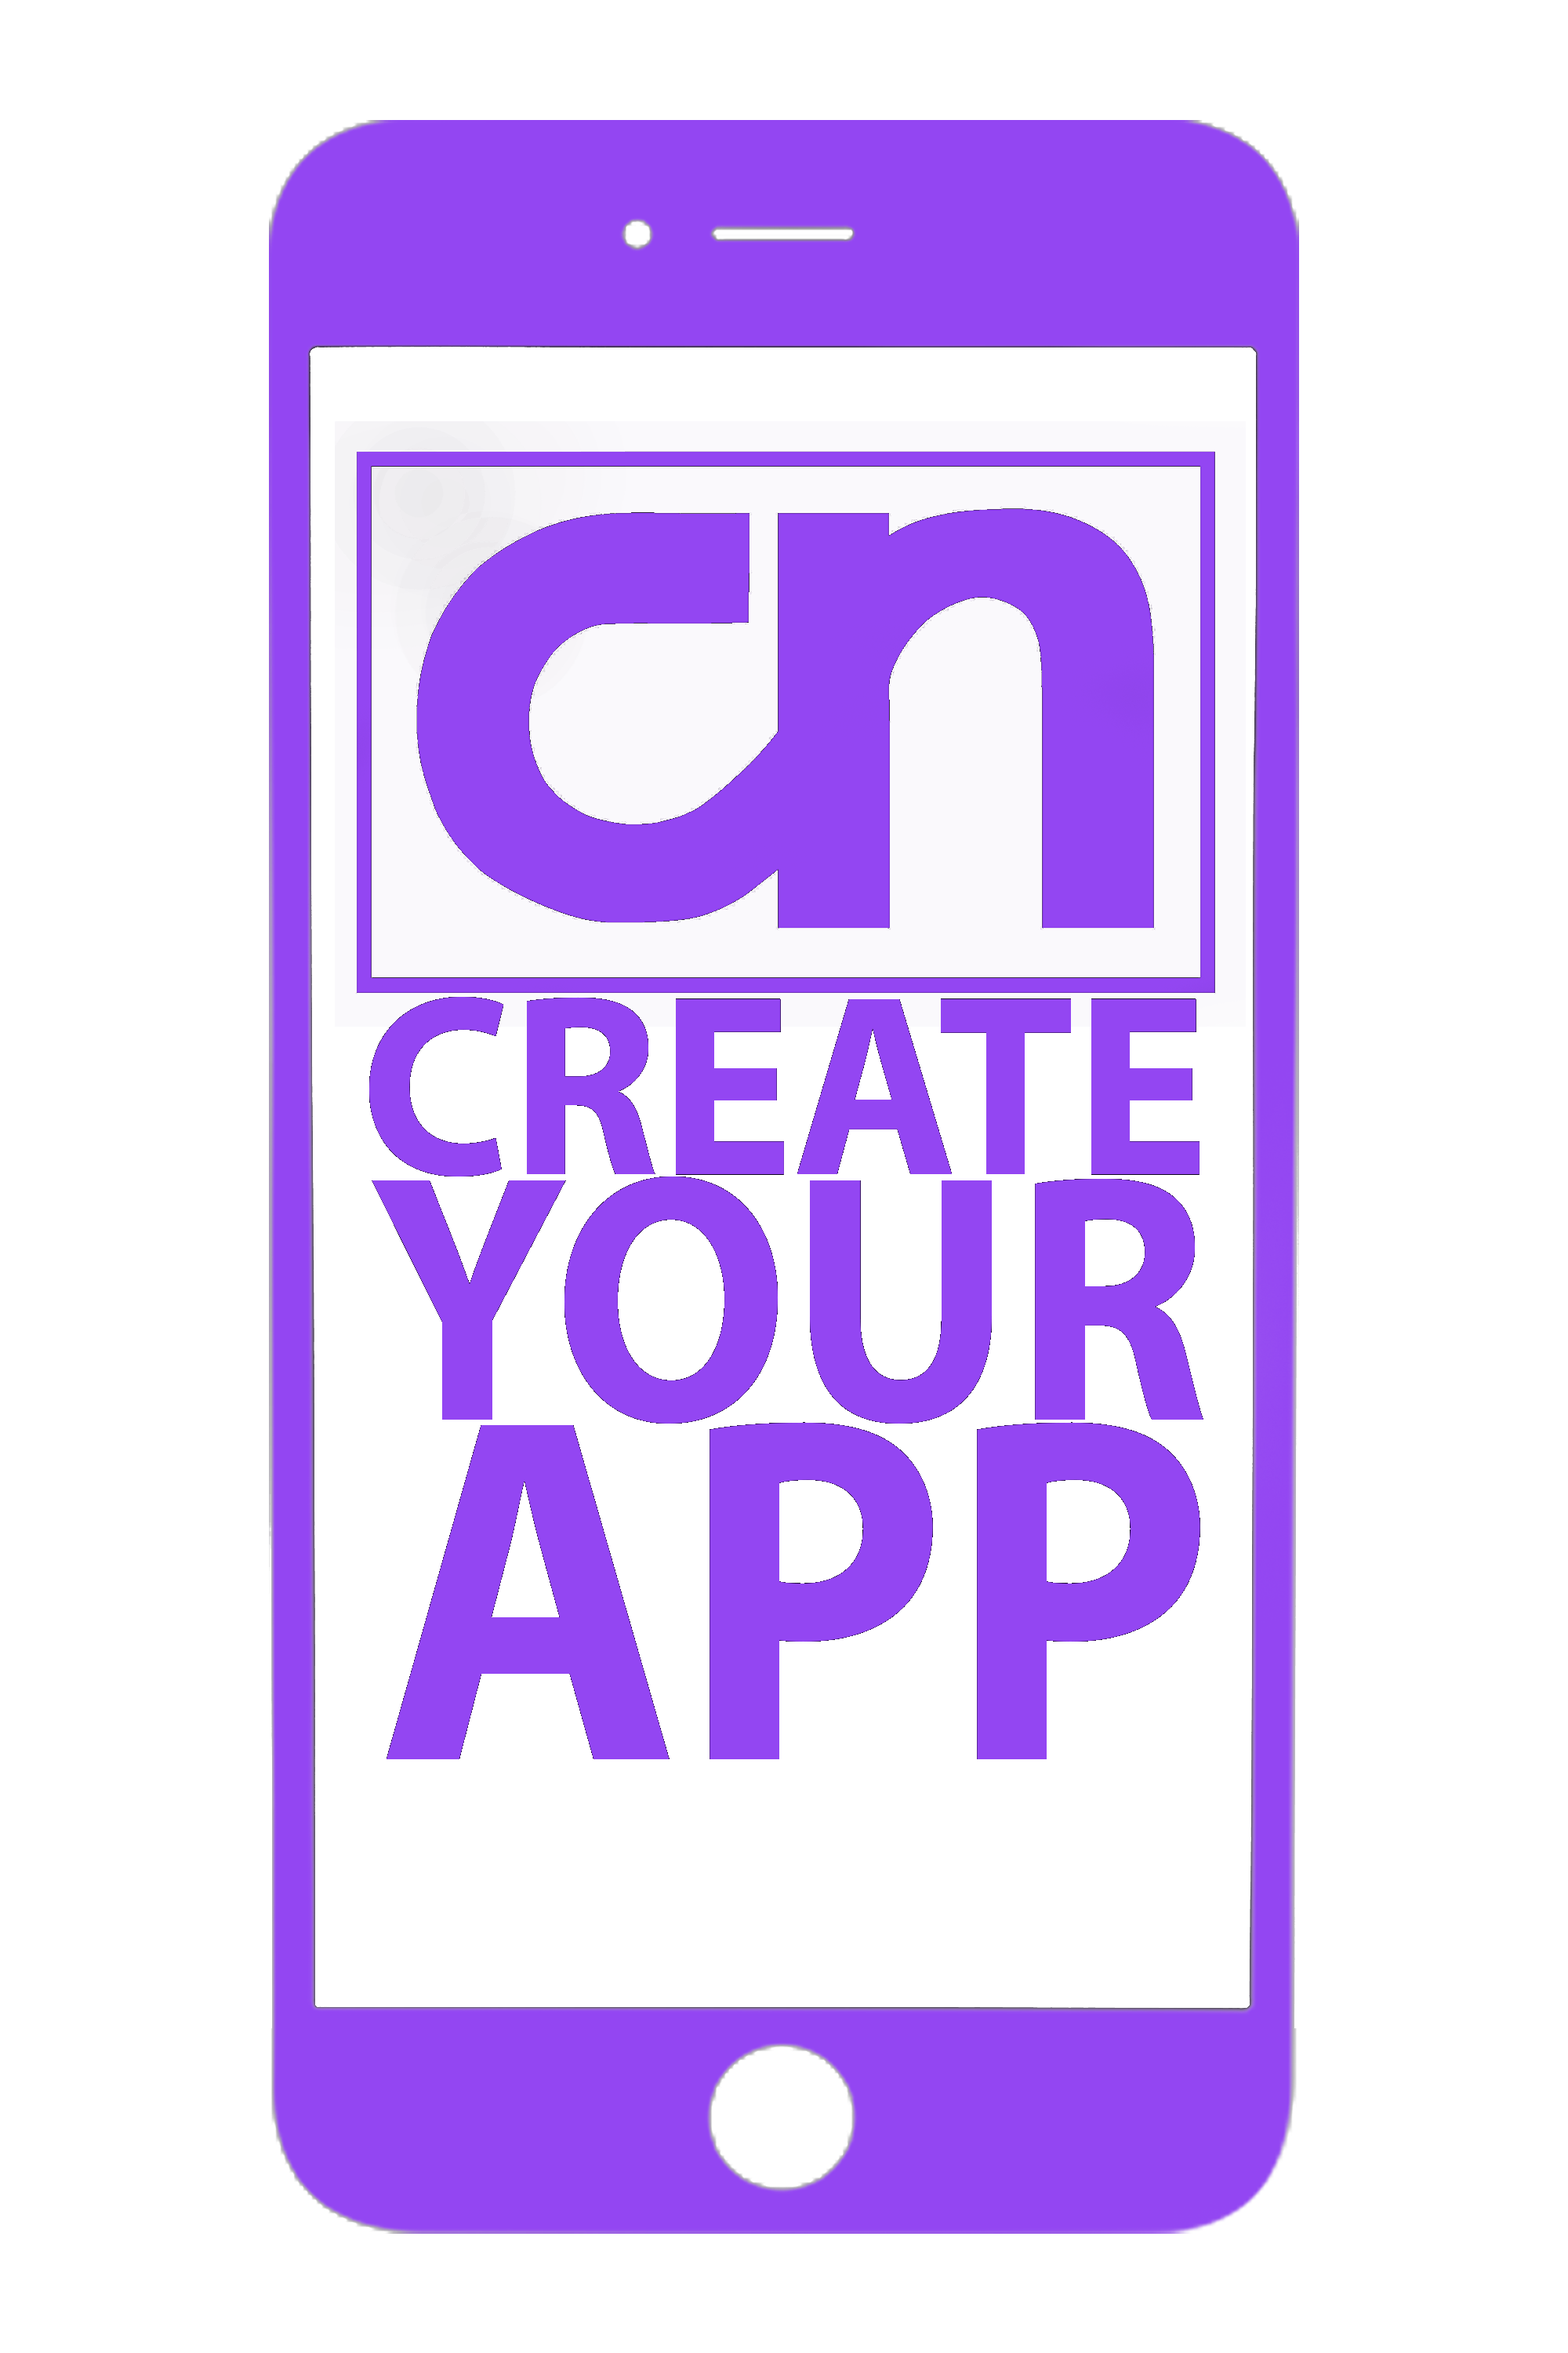
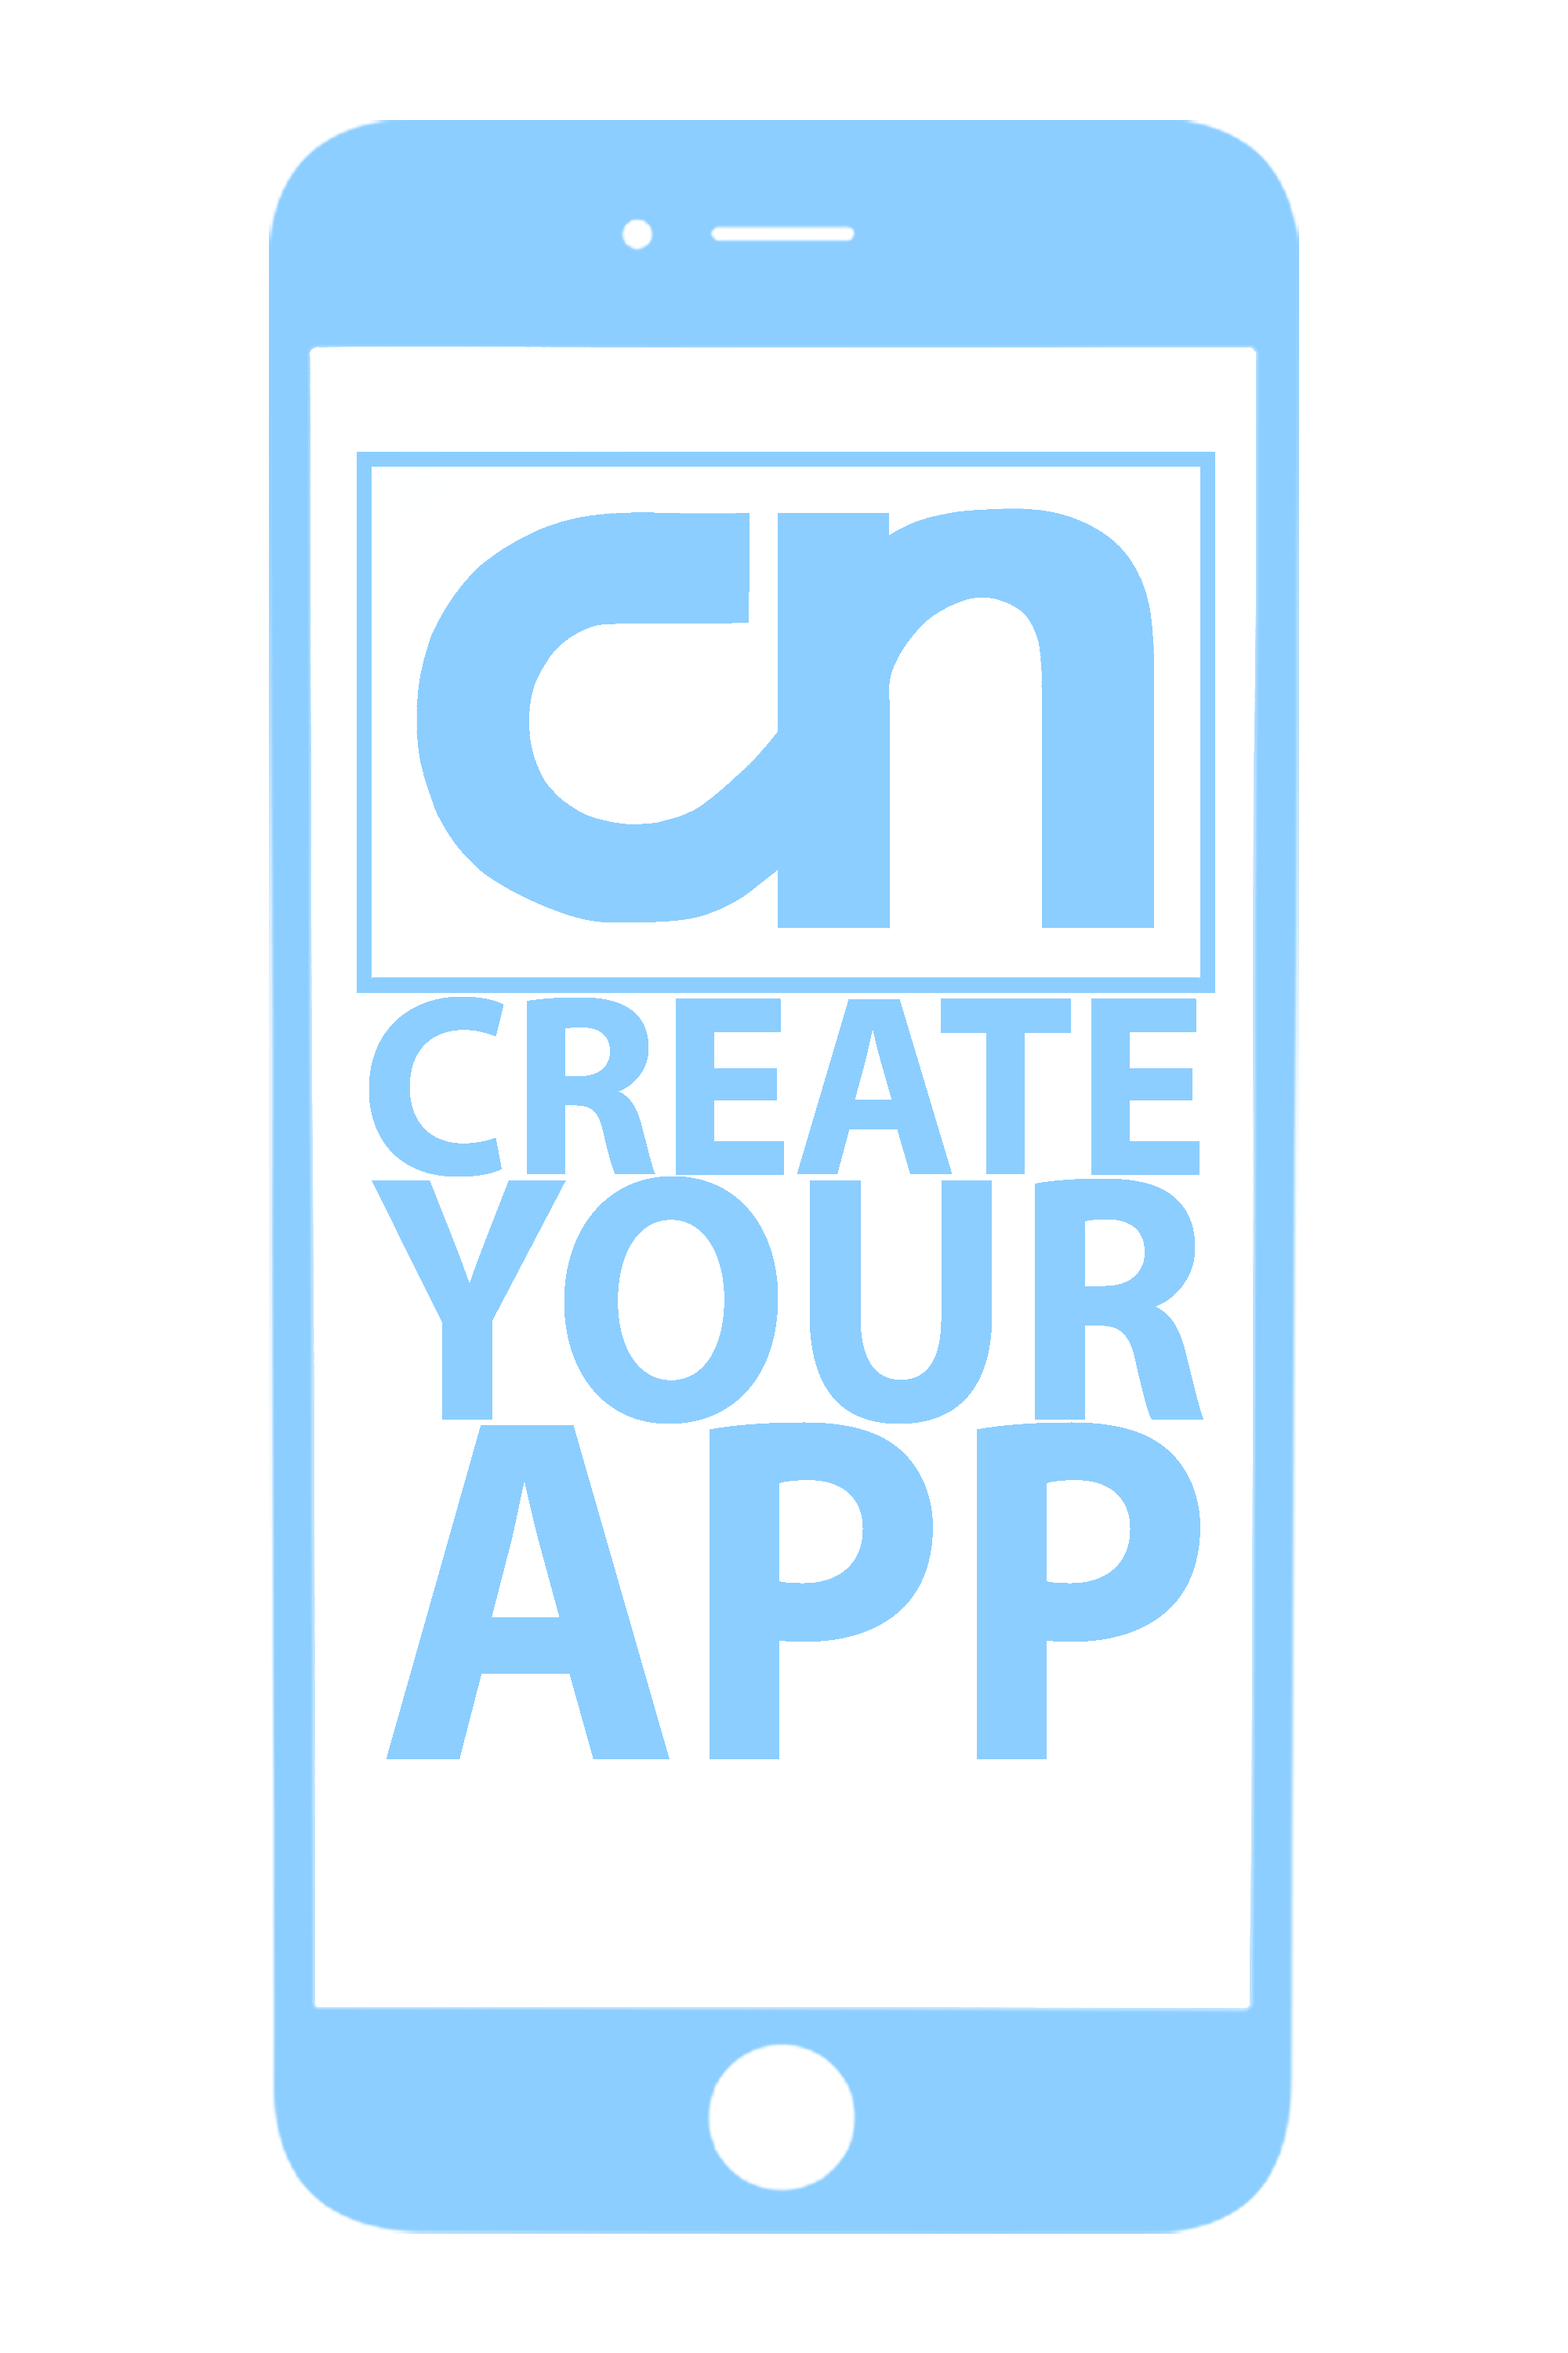
color change

diff --git a/css/creative.min.css b/css/creative.min.css
@@ -9,19 +9,19 @@ body {
 hr {
   max-width: 50px;
   border-width: 3px;
-  border-color: #a366ff;
+  border-color: #8cceff;
 }
 hr.light {
   border-color: #fff;
 }
 a {
-  color: #a366ff;
+  color: #8cceff;
   -webkit-transition: all 0.2s;
   -moz-transition: all 0.2s;
   transition: all 0.2s;
 }
 a:hover {
-  color: #a366ff;
+  color: #8cceff;
 }
 h1,
 h2,
@@ -35,13 +35,13 @@ h1{
     color: black;
 }
 .bg-primary {
-  background-color: #a366ff !important;
+  background-color: #8cceff !important;
 }
 .bg-dark {
   background-color: #212529 !important;
 }
 .text-faded {
-  color: rgba(255, 255, 255, 0.7);
+  color: rgba(140, 206, 255,0.7);
 }
 section {
   padding: 8rem 0;
@@ -78,12 +78,12 @@ img::-moz-selection {
 #mainNav .navbar-brand {
   font-weight: 700;
   text-transform: uppercase;
-  color: #a366ff;
+  color: #8cceff;
   font-family: "Open Sans", "Helvetica Neue", Arial, sans-serif;
 }
 #mainNav .navbar-brand:focus,
 #mainNav .navbar-brand:hover {
-  color: #a366ff;
+  color: #8cceff;
 }
 #mainNav .navbar-nav > li.nav-item > a.nav-link,
 #mainNav .navbar-nav > li.nav-item > a.nav-link:focus {
@@ -94,11 +94,11 @@ img::-moz-selection {
 }
 #mainNav .navbar-nav > li.nav-item > a.nav-link:focus:hover,
 #mainNav .navbar-nav > li.nav-item > a.nav-link:hover {
-  color: #a366ff;
+  color: #8cceff;
 }
 #mainNav .navbar-nav > li.nav-item > a.nav-link.active,
 #mainNav .navbar-nav > li.nav-item > a.nav-link:focus.active {
-  color: #a366ff !important;
+  color: #8cceff !important;
   background-color: transparent;
 }
 #mainNav .navbar-nav > li.nav-item > a.nav-link.active:hover,
@@ -111,7 +111,7 @@ img::-moz-selection {
     background-color: transparent;
   }
   #mainNav .navbar-brand {
-    color: rgba(255, 255, 255, 0.7);
+    color: rgba(140, 206, 255,0.7);
   }
   #mainNav .navbar-brand:focus,
   #mainNav .navbar-brand:hover {
@@ -122,7 +122,7 @@ img::-moz-selection {
   }
   #mainNav .navbar-nav > li.nav-item > a.nav-link,
   #mainNav .navbar-nav > li.nav-item > a.nav-link:focus {
-    color: rgba(255, 255, 255, 0.7);
+    color: rgba(140, 206, 255,0.7);
   }
   #mainNav .navbar-nav > li.nav-item > a.nav-link:focus:hover,
   #mainNav .navbar-nav > li.nav-item > a.nav-link:hover {
@@ -133,11 +133,11 @@ img::-moz-selection {
     background-color: #fff;
   }
   #mainNav.navbar-shrink .navbar-brand {
-    color: #a366ff;
+    color: #8cceff;
   }
   #mainNav.navbar-shrink .navbar-brand:focus,
   #mainNav.navbar-shrink .navbar-brand:hover {
-    color: #a366ff;
+    color: #8cceff;
   }
   #mainNav.navbar-shrink .navbar-nav > li.nav-item > a.nav-link,
   #mainNav.navbar-shrink .navbar-nav > li.nav-item > a.nav-link:focus {
@@ -145,7 +145,7 @@ img::-moz-selection {
   }
   #mainNav.navbar-shrink .navbar-nav > li.nav-item > a.nav-link:focus:hover,
   #mainNav.navbar-shrink .navbar-nav > li.nav-item > a.nav-link:hover {
-    color: #a366ff;
+    color: #8cceff;
   }
 }
 header.masthead {
@@ -216,7 +216,7 @@ header.masthead p {
   text-align: center;
   opacity: 0;
   color: #fff;
-  background: rgba(255, 226, 122, 0.9);
+  background: rgba(255, 254, 249,0.9);
   -webkit-transition: all 0.2s;
   -moz-transition: all 0.2s;
   transition: all 0.2s;
@@ -274,7 +274,7 @@ header.masthead p {
   }
 }
 .text-primary {
-  color: #a366ff !important;
+  color: #8cceff !important;
 }
 .btn {
   font-weight: 700;
@@ -287,8 +287,8 @@ header.masthead p {
   padding: 1rem 2rem;
 }
 .btn-primary {
-  background-color: #a366ff;
-  border-color: #a366ff;
+  background-color: #8cceff;
+  border-color: #8cceff;
 }
 .btn-primary:active,
 .btn-primary:focus,
@@ -310,25 +310,25 @@ header.masthead p {
     margin: 1vh;
 }
 #iconcolor{
-    color: rgba(255, 226, 122, 1);
+    color: rgba(255, 254, 249,1);
 }
 #box{
     min-height: 10vh;
 }
 .orange{
-    color: rgba(255, 226, 122, 1);
-    border-color: rgba(255, 226, 122, 1);
+    color: rgba(255, 254, 249,1);
+    border-color: rgba(255, 254, 249,1);
 }
 #transparentback{
-    background-color: rgba(255, 255, 255, 0.7);
+    background-color: rgba(140, 206, 255,0.7);
     padding: 2vh;
     border-radius: 1vh;
-    border: #a366ff 1vh solid
+    border: #8cceff 1vh solid
 }
 #slogen{
     font-weight: 600;
     margin: 2vh;
-    color: #a366ff;
+    color: #8cceff;
 }
 #heightfix{
     height: 4rem;
@@ -341,11 +341,11 @@ header.masthead p {
 }
 
 #classification{
-  background-color: #f4d74b;
+  background-color: #fffef9;
 }
 
 .text-muted-dark{
-    color: rgba(255, 255, 255, 0.7);
+    color: rgba(140, 206, 255,0.7);
 }
 #classnumberD{
   font-size: 4rem;
@@ -370,7 +370,7 @@ header.masthead p {
   font-size: 4rem;
 }
 .classbox{
-  background-color: #a366ff;
+  background-color: #8cceff;
   padding: 1rem;
   box-shadow: 0px 6px 4px -3px rgba(0,0,0,0.18);
   width: 10rem;
@@ -378,7 +378,7 @@ header.masthead p {
   margin-right: auto
 }
 .classbox-light{
-  background-color: #f4d74b;
+  background-color: #fffef9;
   padding: 1rem;
   box-shadow: 0px 6px 4px -3px rgba(0,0,0,0.18);
   width: 10rem;
@@ -386,8 +386,8 @@ header.masthead p {
   margin-right: auto
 }
 .headrow{
-  background-color: #a366ff;
-  color: #f4d74b;
+  background-color: #8cceff;
+  color: #fffef9;
 }
 table{
   box-shadow: 3px 6px 4px -1px rgba(0,0,0,0.18);
@@ -440,6 +440,6 @@ table{
 
 }
 .companyname{
-  background-color: #f4d74b;
+  background-color: #fffef9;
   padding: 0.4rem;
 }

diff --git a/Account/developer.html b/Account/developer.html
@@ -57,7 +57,7 @@
         </div>
     </nav>
 
-    <header class="masthead-classification text-center text-white d-flex" id="classification">
+    <header class="masthead-classification text-center text-primary d-flex" id="classification">
         <div class="container my-auto">
             <div class="row justify-content-center align-items-center">
                 <div class="col">

diff --git a/index.html b/index.html
@@ -64,7 +64,7 @@
     </div>
   </nav>
 
-  <header class="masthead text-center text-white d-flex">
+  <header class="masthead text-center text-primary d-flex">
     <div class="container my-auto">
       <div class="row justify-content-center align-items-center">
         <img src="/img/coverpic.png" height="400" class="d-inline-block align-top">
